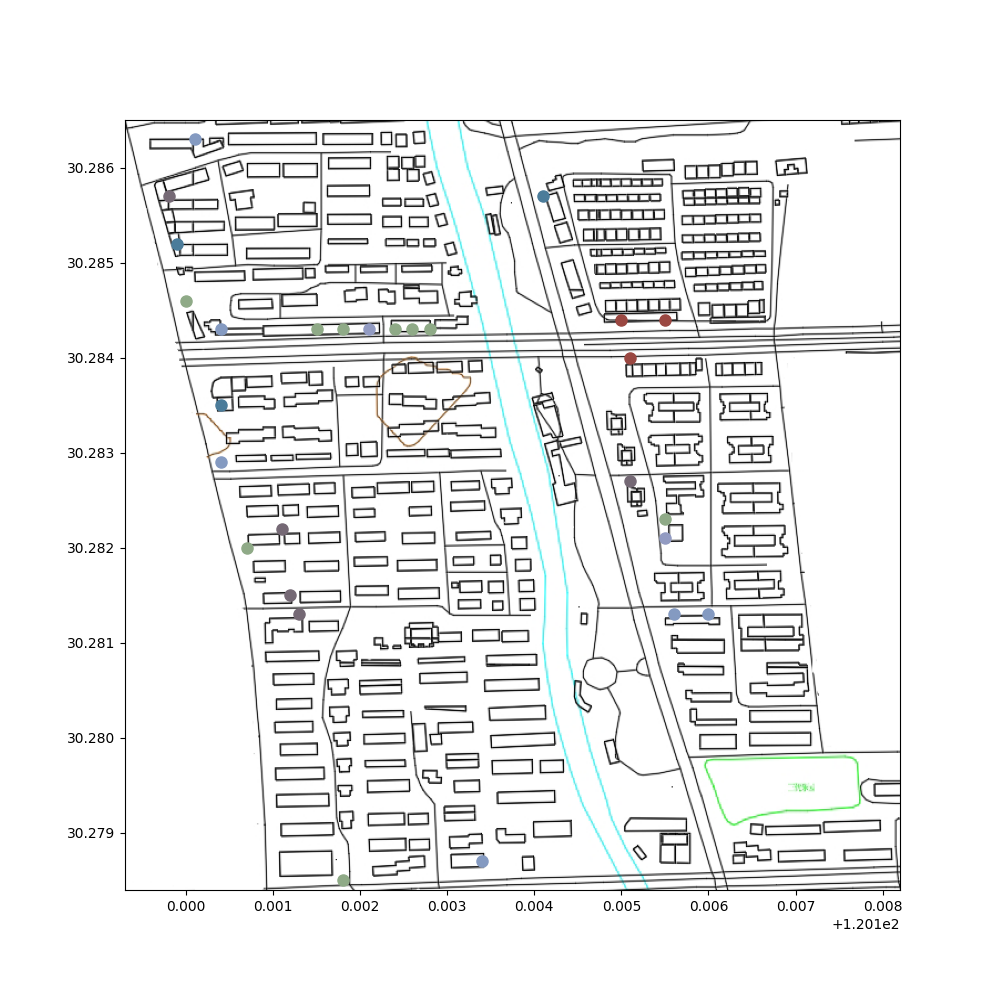
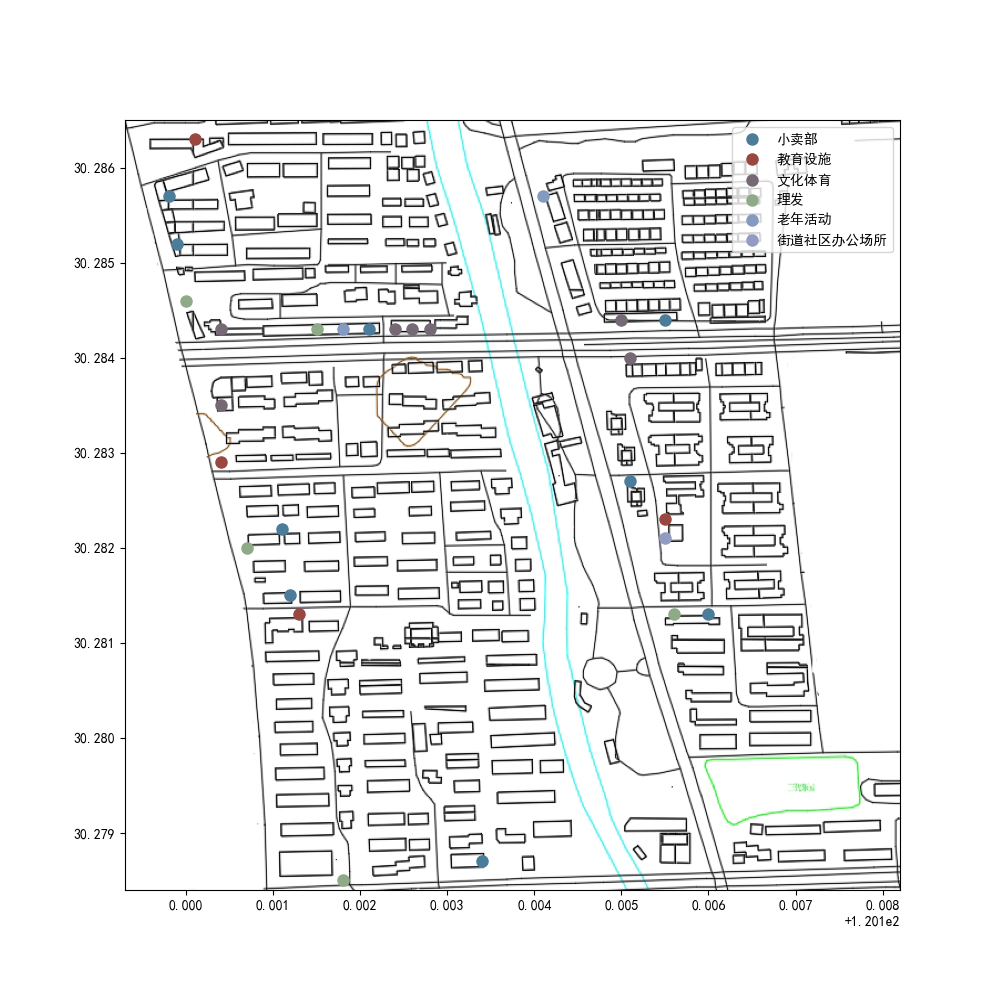
这个版本，修复了不能正确显示中文的问题

diff --git a/画点.py b/画点.py
@@ -1,11 +1,15 @@
+#-*- coding: utf-8 -*-
+
 import pandas as pd
 import matplotlib.pyplot as plt
 
+plt.rcParams['font.sans-serif']=['SimHei'] #用来正常显示中文标签
+plt.rcParams['axes.unicode_minus']=False #用来正常显示负号
 # 假设你的文件路径为 'pointData.xls'
 file_path = 'pointData.xls'
 
 # 使用pandas读取excel文件，只选择第3列、第4列和第5列
-df = pd.read_excel(file_path, usecols=[3, 4, 5])
+df = pd.read_excel(file_path, usecols=[2, 4, 5])
 
 # 重命名列
 df.columns = ['type', 'x', 'y']
@@ -41,13 +45,13 @@ for group_name, group_data in grouped:
     color = colors[current_color_index % len(colors)]  # 循环使用颜色列表
     # 在指定坐标处添加多个标记
     ax.plot(group_data['x'], group_data['y'], marker='o', color=color, markersize=8, linestyle='',
-            label=f"类型 {group_name}")
+            label=f"{group_name}")
 
     # 更新颜色索引
     current_color_index += 1
 
 # 添加图例
-# ax.legend()
+ax.legend()
 
 # 保存图像
 plt.savefig('map_all_types.png')
